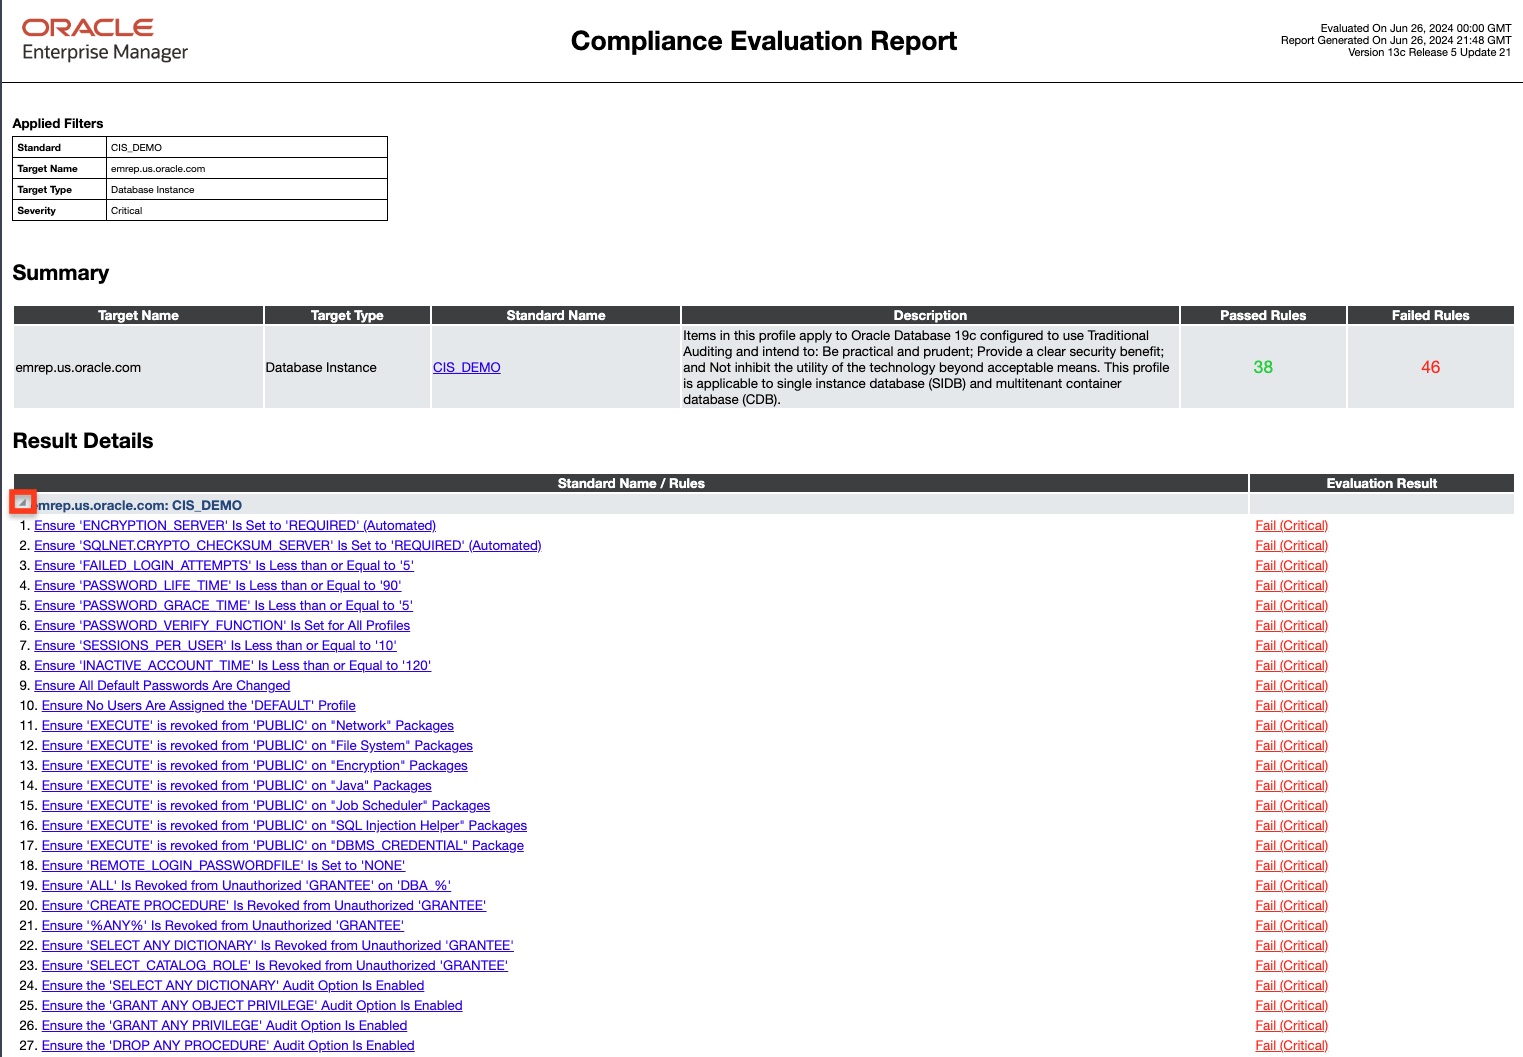
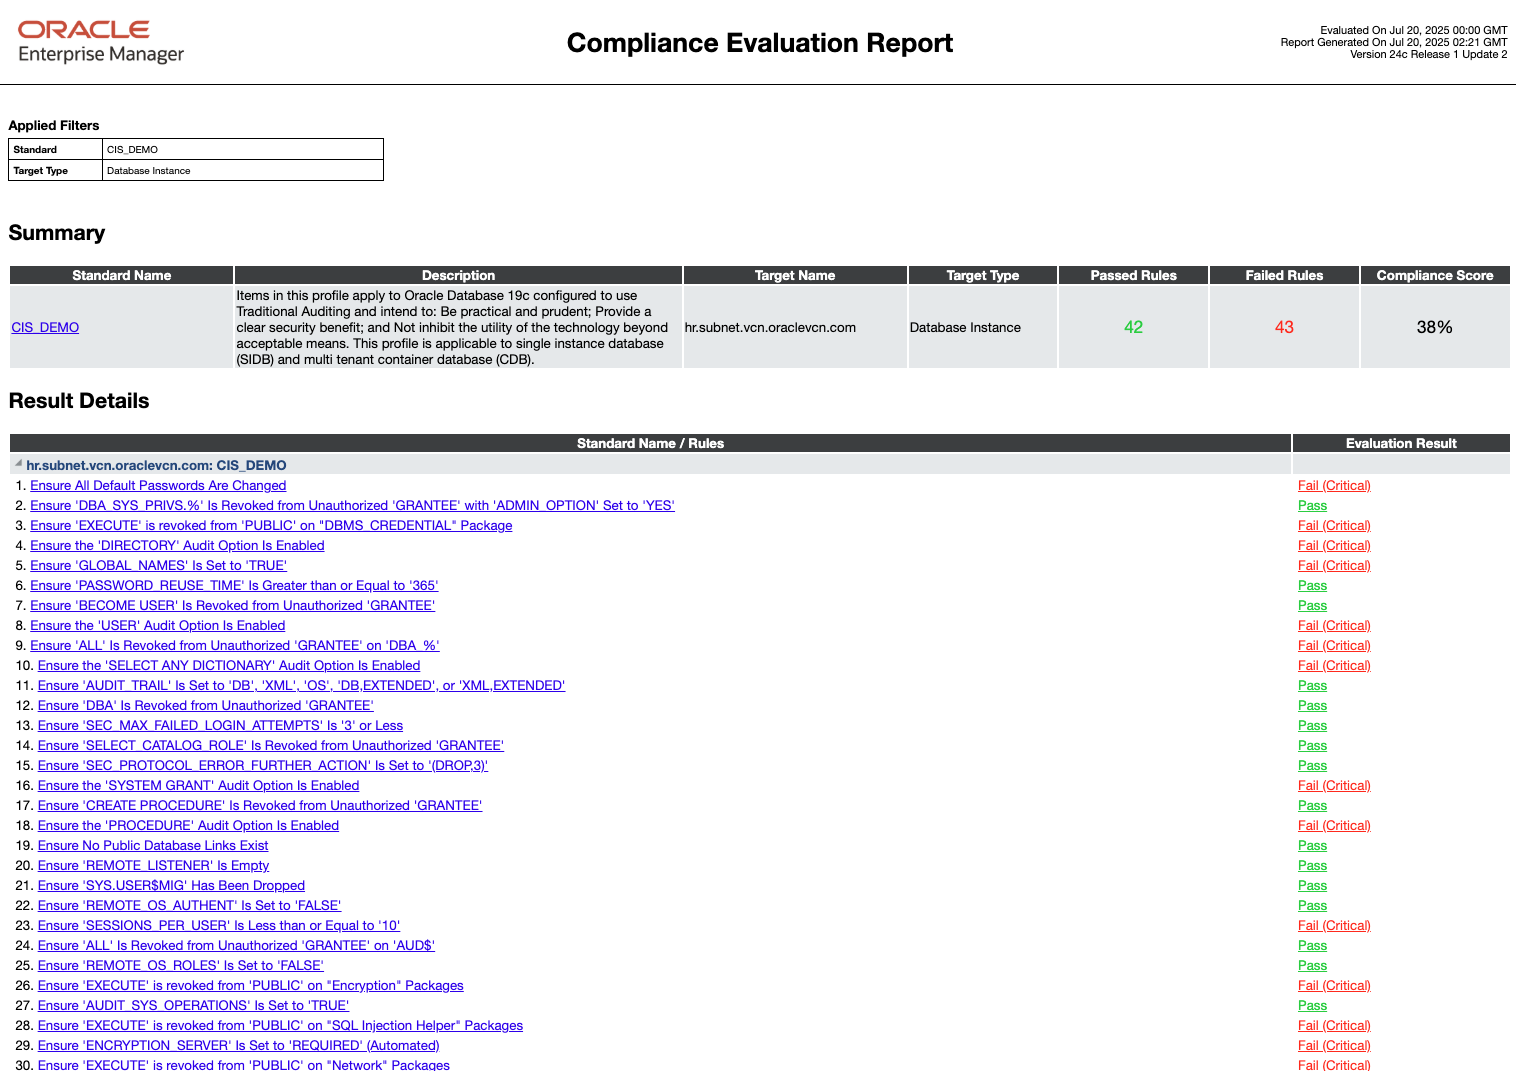
24ai CIS compliance new screen
Newer screen shots with explanation steps were added

Changed region(s): [[0.0, 0.0, 1.0, 1.0], [0.8371, 0.0, 0.9921, 0.0624], [0.372, 0.0312, 0.6201, 0.0624]]

diff --git a/enterprise-manager/em24ai/em-configuration-compliance-management/em-configuration-compliance-management.md b/enterprise-manager/em24ai/em-configuration-compliance-management/em-configuration-compliance-management.md
@@ -478,7 +478,7 @@ Click the **Cancel** button.
 
     ![cis-compliance-standard-target-success-page](images/cis-compliance-standard-target-success.png " cis-compliance-standard-target-success-page ")
 
- 16. Go to the **Enterprise>>Compliance Standards** page to check the CIS compliance posture. It takes about few minutes to show up in compliance dashboard results.
+16. Go to the **Enterprise>>Compliance Standards** page to check the CIS compliance posture. It takes about few minutes to show up in compliance dashboard results.
  
    ![compliance-standards-compliance-page](images/compliance-standards-compliance.png " compliance-standards-compliance-page ")
        
@@ -499,7 +499,6 @@ Click the **Cancel** button.
     ![cis-compliance-critical-violations-page](images/cis-compliance-critical-violations.png " cis-compliance-critical-violations-page ")
 
 18. Each rule name violated and rationale for the violation can be explored below
-
 
     ![evaluate-cis-critical-violations-page](images/evaluate-cis-critical-violations.png " evaluate-cis-critical-violations-page ")
 
@@ -533,16 +532,15 @@ Click the **Cancel** button.
     Under Result Details, clicking on the arrow mark at **emrep.us.oracle.com: CIS_DEMO** gives more information on individual rules.
 
     ![cis-demo-compliance-report2-page](images/cis-demo-compliance-report2.png " cis-demo-compliance-report2-page ")
-    ![cis-demo-compliance-report3-page](images/cis-demo-compliance-report3.png " cis-demo-compliance-report3-page ")
 
-    ![cis-compliance-results-by-standard-rules2-page](images/cis-compliance-results-by-standard-rules2.png " cis-compliance-results-by-standard-rules2-page ")
+23. On ***Standard Compliance Dashboard***
+
+    ![cis-compliance-dashboard-logout-page](images/cis-compliance-dashboard-logout.png " cis-compliance-dashboard-logout-page ")
 
     Click **Logout**
 
-    ![cis-compliance-results-logout-page](images/cis-compliance-results-logout-page.png " cis-compliance-results-logout-page ")  
+    These actions collectively bring your database target into full CIS compliance, reinforcing your organization’s security posture and operational integrity.   
 
-    <!-- All of these steps will give you a CIS Compliance security posture of database target. -->  
-    
 
 ## Task 5: Host Security Compliance
 
